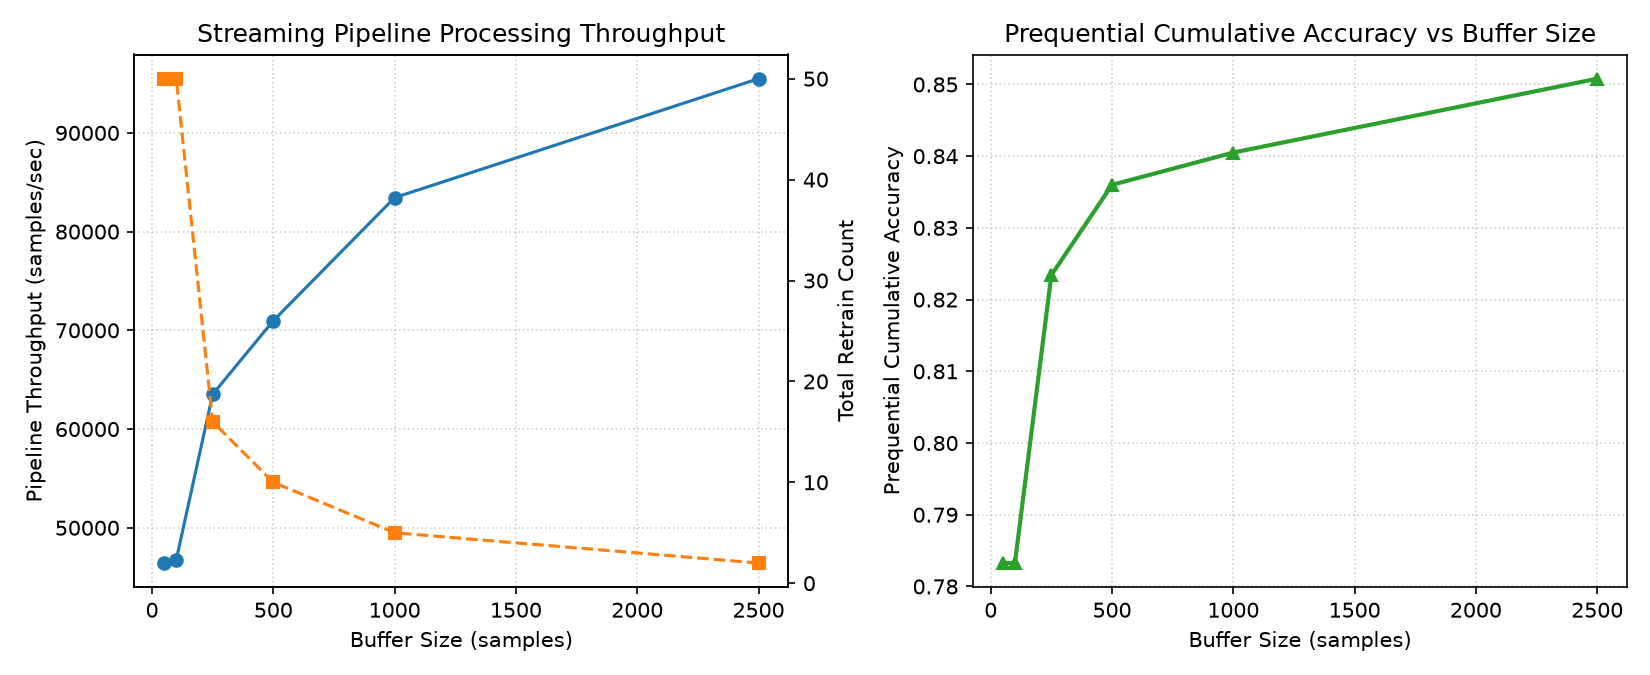
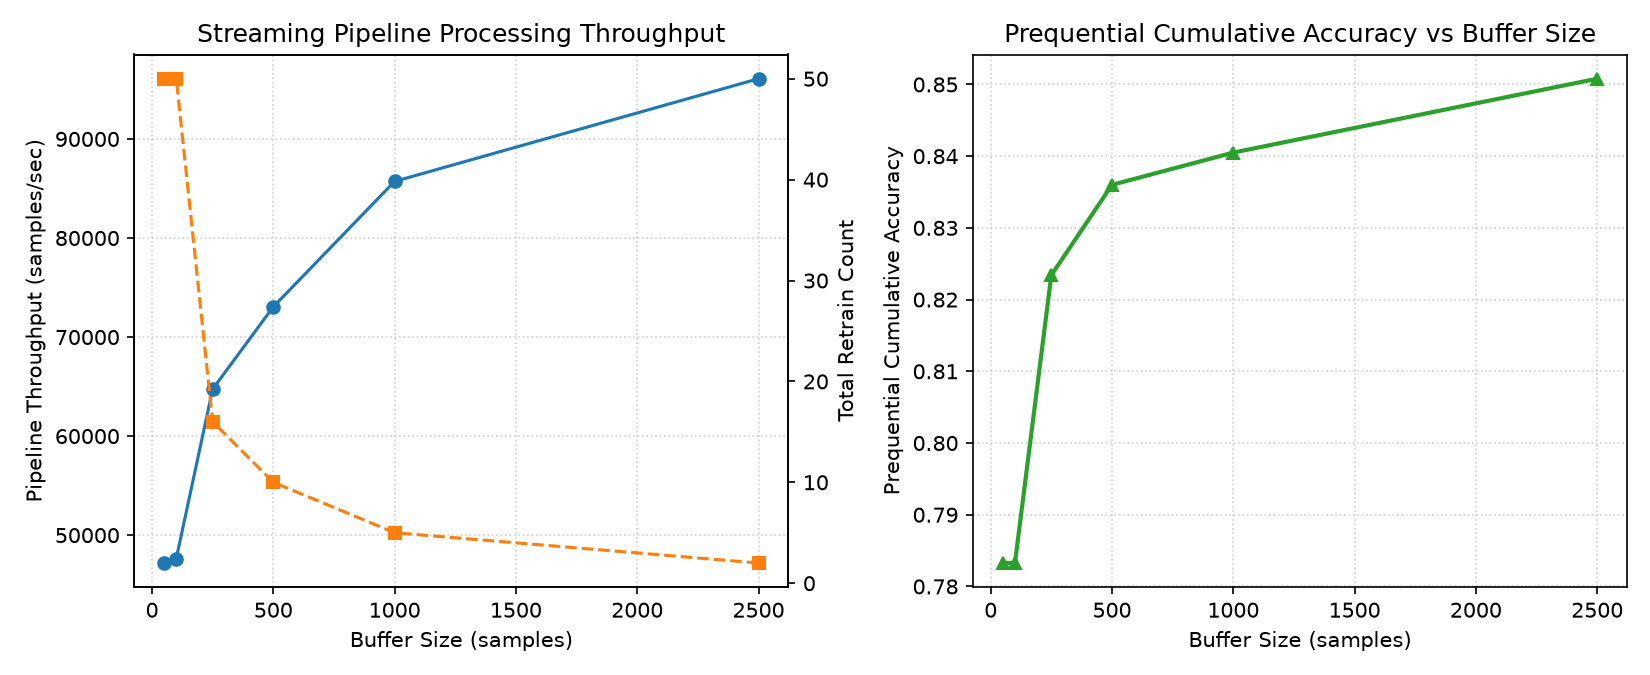
benchmark: record mean and median fit latency per retrain event and update markdown report

diff --git a/benchmark/benchmark_streaming.py b/benchmark/benchmark_streaming.py
@@ -217,9 +217,23 @@ def benchmark_buffer_size_tradeoff(
         retrain_count = sum(1 for l in logs if l["retrained"])
         fit_times = [l["fit_time"] for l in logs]
         score_times = [l["score_time"] for l in logs]
+        retrain_fit_times = [l["fit_time"] for l in logs if l.get("retrained", False)]
+
         peak_structural_mem = max(l["memory_bytes"] for l in logs)
         final_cum_acc = logs[-1]["cumulative_accuracy"]
         throughput = float(total_samples / max(total_time, 1e-9))
+
+        mean_fit_chunk = float(np.mean(fit_times) * 1000.0) if fit_times else 0.0
+        median_fit_chunk = float(np.median(fit_times) * 1000.0) if fit_times else 0.0
+        mean_score_chunk = float(np.mean(score_times) * 1000.0) if score_times else 0.0
+        median_score_chunk = float(np.median(score_times) * 1000.0) if score_times else 0.0
+
+        if retrain_fit_times:
+            mean_fit_retrain: Optional[float] = float(np.mean(retrain_fit_times) * 1000.0)
+            median_fit_retrain: Optional[float] = float(np.median(retrain_fit_times) * 1000.0)
+        else:
+            mean_fit_retrain = None
+            median_fit_retrain = None
 
         results.append({
             "buffer_size": bs,
@@ -228,10 +242,12 @@ def benchmark_buffer_size_tradeoff(
             "retrain_count": retrain_count,
             "total_time_sec": float(total_time),
             "throughput_samples_per_sec": throughput,
-            "mean_fit_time_per_chunk_ms": float(np.mean(fit_times) * 1000.0),
-            "median_fit_time_per_chunk_ms": float(np.median(fit_times) * 1000.0),
-            "mean_score_time_per_chunk_ms": float(np.mean(score_times) * 1000.0),
-            "median_score_time_per_chunk_ms": float(np.median(score_times) * 1000.0),
+            "mean_fit_time_per_chunk_ms": mean_fit_chunk,
+            "median_fit_time_per_chunk_ms": median_fit_chunk,
+            "mean_fit_time_per_retrain_ms": mean_fit_retrain,
+            "median_fit_time_per_retrain_ms": median_fit_retrain,
+            "mean_score_time_per_chunk_ms": mean_score_chunk,
+            "median_score_time_per_chunk_ms": median_score_chunk,
             "estimated_structural_memory_bytes": int(peak_structural_mem),
             "final_cumulative_accuracy": float(final_cum_acc) if final_cum_acc is not None else 0.0,
         })
@@ -361,13 +377,19 @@ def run_and_save_benchmarks(output_dir: str = "benchmark/results") -> None:
         "",
         f"Evaluated on a synthetic stream of {buffer_res[0]['total_samples']} samples (chunk size {buffer_res[0]['chunk_size']}) with fixed decision boundaries.",
         "",
-        "| Buffer Size | Retrains | Total Time (s) | Streaming Pipeline Throughput (samples/s) | Fit Latency/chunk (ms) | Estimated Structural Memory (bytes) | Prequential Acc |",
-        "|---|---|---|---|---|---|---|",
+        "| Buffer Size | Retrains | Total Time (s) | Streaming Pipeline Throughput (samples/s) | Mean Fit Latency / Chunk (ms) | Mean Fit Latency / Retrain Event (ms) | Mean Scoring Latency / Chunk (ms) | Estimated Structural Memory (bytes) | Prequential Acc |",
+        "|---|---|---|---|---|---|---|---|---|",
     ])
     for r in buffer_res:
+        retrain_fit_str = (
+            f"{r['mean_fit_time_per_retrain_ms']:.2f}"
+            if r["mean_fit_time_per_retrain_ms"] is not None
+            else "N/A"
+        )
         md_content.append(
             f"| {r['buffer_size']} | {r['retrain_count']} | {r['total_time_sec']:.3f} | "
-            f"{r['throughput_samples_per_sec']:.1f} | {r['median_fit_time_per_chunk_ms']:.2f} | "
+            f"{r['throughput_samples_per_sec']:.1f} | {r['mean_fit_time_per_chunk_ms']:.2f} | "
+            f"{retrain_fit_str} | {r['mean_score_time_per_chunk_ms']:.3f} | "
             f"{r['estimated_structural_memory_bytes']:,} | {r['final_cumulative_accuracy']:.4f} |"
         )
 

diff --git a/report/report.md b/report/report.md
@@ -98,23 +98,23 @@ We evaluated split search latency across synthetic multi-class datasets ($C=3$) 
 ### 4.2 Streaming Buffer Size Trade-offs
 We evaluated the full streaming pipeline (`CSVReader` $\to$ `Imputer` $\to$ `StandardScaler` $\to$ `DecisionTreeClassifier` $\to$ `StreamTrainer`) across a synthetic stream of 5,000 samples (chunk size 100) with fixed decision boundaries:
 
-| Buffer Size | Retrains | Total Time (s) | Streaming Pipeline Throughput (samples/s) | Fit Latency/chunk (ms) | Estimated Structural Memory (bytes) | Prequential Acc |
-|---|---|---|---|---|---|---|
-| **50** | 50 | 0.108 | 46,428 | 2.10 | 5,136 | 0.7833 |
-| **100** | 50 | 0.107 | 46,766 | 2.03 | 5,136 | 0.7833 |
-| **250** | 16 | 0.079 | 63,519 | 0.04 | 15,248 | 0.8234 |
-| **500** | 10 | 0.070 | 70,976 | 0.04 | 23,760 | 0.8360 |
-| **1,000** | 5 | 0.060 | 83,442 | 0.03 | 44,464 | 0.8405 |
-| **2,500** | 2 | 0.052 | 95,488 | 0.03 | 104,592 | 0.8508 |
+| Buffer Size | Retrains | Total Time (s) | Streaming Pipeline Throughput (samples/s) | Mean Fit Latency / Chunk (ms) | Mean Fit Latency / Retrain Event (ms) | Mean Scoring Latency / Chunk (ms) | Estimated Structural Memory (bytes) | Prequential Acc |
+|---|---|---|---|---|---|---|---|---|
+| **50** | 50 | 0.106 | 47,183 | 2.05 | 2.05 | 0.057 | 5,136 | 0.7833 |
+| **100** | 50 | 0.105 | 47,637 | 2.03 | 2.03 | 0.056 | 5,136 | 0.7833 |
+| **250** | 16 | 0.077 | 64,744 | 1.47 | 4.52 | 0.058 | 15,248 | 0.8234 |
+| **500** | 10 | 0.068 | 73,053 | 1.30 | 6.35 | 0.055 | 23,760 | 0.8360 |
+| **1,000** | 5 | 0.058 | 85,715 | 1.10 | 10.66 | 0.052 | 44,464 | 0.8405 |
+| **2,500** | 2 | 0.052 | 96,084 | 0.99 | 24.07 | 0.033 | 104,592 | 0.8508 |
 
 ```
 Pipeline Throughput vs. Structural Memory Trade-off:
-Streaming Throughput (samples/sec) : [50: 46.4k] ------> [2500: 95.5k]  (2.1x increase)
+Streaming Throughput (samples/sec) : [50: 47.2k] ------> [2500: 96.1k]  (2.0x increase)
 Estimated Structural Memory        : [50: 5.1 KB] ------> [2500: 104.6 KB] (strictly bounded)
 Prequential Accuracy               : [50: 78.3%]  ------> [2500: 85.1%]   (+6.8% stability)
 ```
 
-**Key Finding**: On this fixed-boundary stream, larger buffer sizes decrease the total number of retraining cycles, increasing streaming pipeline processing throughput from 46,428 to 95,488 samples/sec. Estimated structural memory (tracking retained candidate models and raw pending buffers, distinct from process RSS) scales modestly from 5.1 KB to 104.6 KB. Prequential accuracy increases from 78.3% to 85.1% due to larger training support.
+**Key Finding**: On this fixed-boundary stream, larger buffer sizes decrease the total number of retraining cycles, increasing streaming pipeline processing throughput from 47,183 to 96,084 samples/sec. Although mean fit latency per retraining event increases with buffer size (from 2.05 ms at $B=50$ to 24.07 ms at $B=2500$ due to larger training support), retraining events become so infrequent that amortized mean fit latency per chunk drops from 2.05 ms to 0.99 ms. Estimated structural memory scales predictably from 5.1 KB to 104.6 KB, and prequential accuracy reaches 85.1%.
 
 ---
 

diff --git a/benchmark/results/results_streaming.md b/benchmark/results/results_streaming.md
@@ -1,7 +1,7 @@
 # NumCompute Streaming Performance & Empirical Evaluation
 
 **Environment:** Python 3.15.0, NumPy 2.5.4 (darwin)
-**Date:** 2026-11-13 17:33:38
+**Date:** 2026-11-13 17:37:45
 
 ## 1. Vectorised vs. Naive Python Loop Split Evaluation
 
@@ -10,24 +10,24 @@ Timings report both median and mean execution times.
 
 | Sample Size (N) | Naive Loop Median (ms) | Vectorised Median (ms) | Speedup (Median) | Gain Δ | Threshold Δ | Partition Match |
 |---|---|---|---|---|---|---|
-| 100 | 0.414 | 0.058 | **7.1x** | 0.00e+00 | 0.00e+00 | Yes (Exact) |
-| 500 | 2.151 | 0.216 | **10.0x** | 5.55e-17 | 0.00e+00 | Yes (Exact) |
-| 1000 | 4.195 | 0.406 | **10.3x** | 2.78e-17 | 0.00e+00 | Yes (Exact) |
-| 2000 | 8.494 | 0.826 | **10.3x** | 4.08e-17 | 0.00e+00 | Yes (Exact) |
-| 5000 | 21.256 | 2.164 | **9.8x** | 4.16e-17 | 0.00e+00 | Yes (Exact) |
+| 100 | 0.418 | 0.059 | **7.0x** | 0.00e+00 | 0.00e+00 | Yes (Exact) |
+| 500 | 2.116 | 0.213 | **10.0x** | 5.55e-17 | 0.00e+00 | Yes (Exact) |
+| 1000 | 4.299 | 0.419 | **10.3x** | 2.78e-17 | 0.00e+00 | Yes (Exact) |
+| 2000 | 8.472 | 0.805 | **10.5x** | 4.08e-17 | 0.00e+00 | Yes (Exact) |
+| 5000 | 21.300 | 2.095 | **10.2x** | 4.16e-17 | 0.00e+00 | Yes (Exact) |
 
 ## 2. Streaming Buffer Size Trade-offs
 
 Evaluated on a synthetic stream of 5000 samples (chunk size 100) with fixed decision boundaries.
 
-| Buffer Size | Retrains | Total Time (s) | Streaming Pipeline Throughput (samples/s) | Fit Latency/chunk (ms) | Estimated Structural Memory (bytes) | Prequential Acc |
-|---|---|---|---|---|---|---|
-| 50 | 50 | 0.108 | 46428.4 | 2.10 | 5,136 | 0.7833 |
-| 100 | 50 | 0.107 | 46766.0 | 2.03 | 5,136 | 0.7833 |
-| 250 | 16 | 0.079 | 63518.9 | 0.04 | 15,248 | 0.8234 |
-| 500 | 10 | 0.070 | 70975.7 | 0.04 | 23,760 | 0.8360 |
-| 1000 | 5 | 0.060 | 83441.9 | 0.03 | 44,464 | 0.8405 |
-| 2500 | 2 | 0.052 | 95488.0 | 0.03 | 104,592 | 0.8508 |
+| Buffer Size | Retrains | Total Time (s) | Streaming Pipeline Throughput (samples/s) | Mean Fit Latency / Chunk (ms) | Mean Fit Latency / Retrain Event (ms) | Mean Scoring Latency / Chunk (ms) | Estimated Structural Memory (bytes) | Prequential Acc |
+|---|---|---|---|---|---|---|---|---|
+| 50 | 50 | 0.106 | 47182.8 | 2.05 | 2.05 | 0.057 | 5,136 | 0.7833 |
+| 100 | 50 | 0.105 | 47637.3 | 2.03 | 2.03 | 0.056 | 5,136 | 0.7833 |
+| 250 | 16 | 0.077 | 64743.5 | 1.47 | 4.52 | 0.058 | 15,248 | 0.8234 |
+| 500 | 10 | 0.068 | 73053.0 | 1.30 | 6.35 | 0.055 | 23,760 | 0.8360 |
+| 1000 | 5 | 0.058 | 85714.9 | 1.10 | 10.66 | 0.052 | 44,464 | 0.8405 |
+| 2500 | 2 | 0.052 | 96083.5 | 0.99 | 24.07 | 0.033 | 104,592 | 0.8508 |
 
 ## 3. Analysis & Key Insights
 
